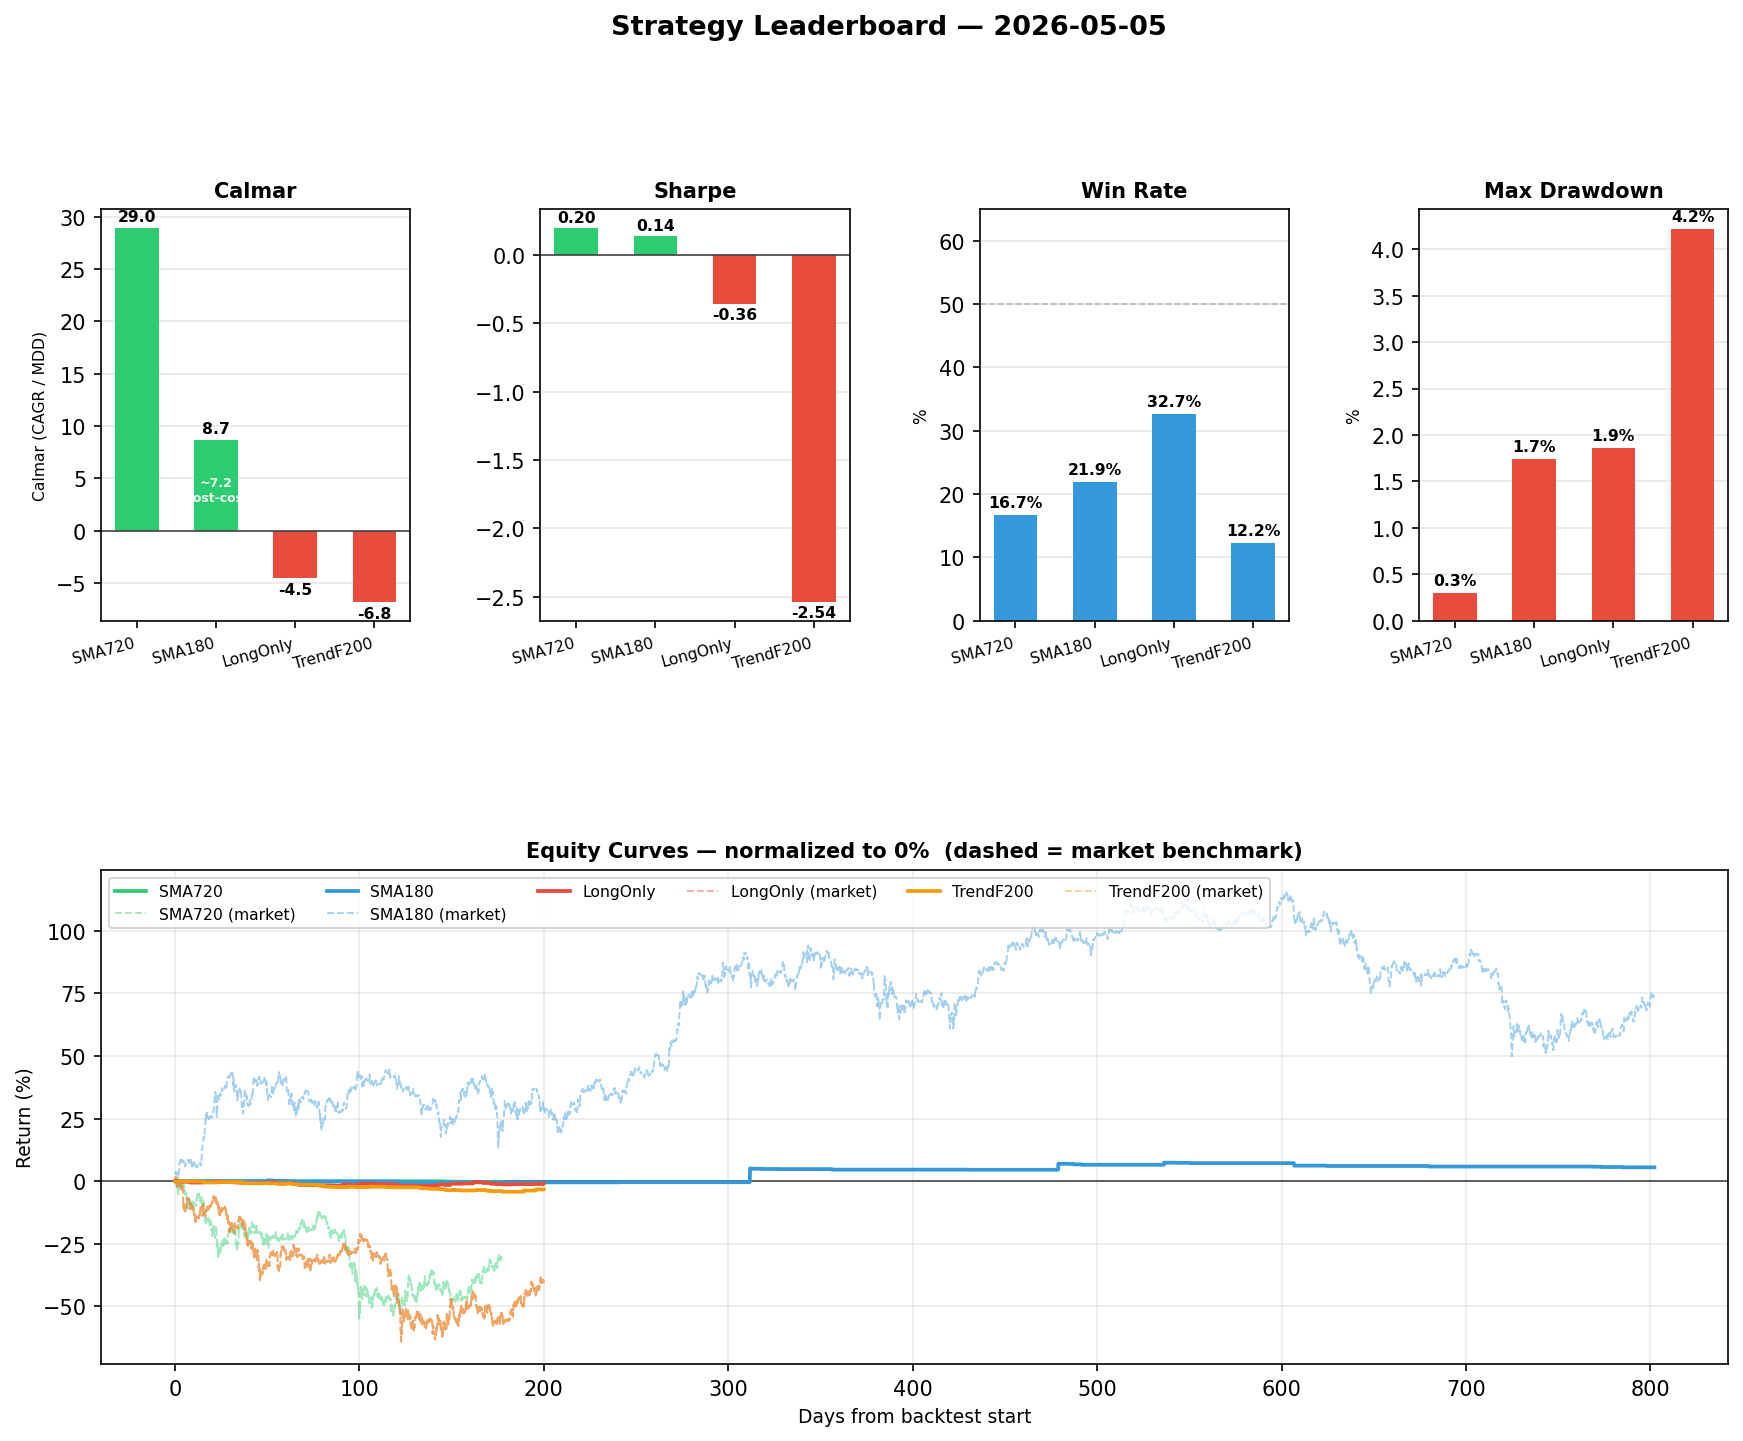
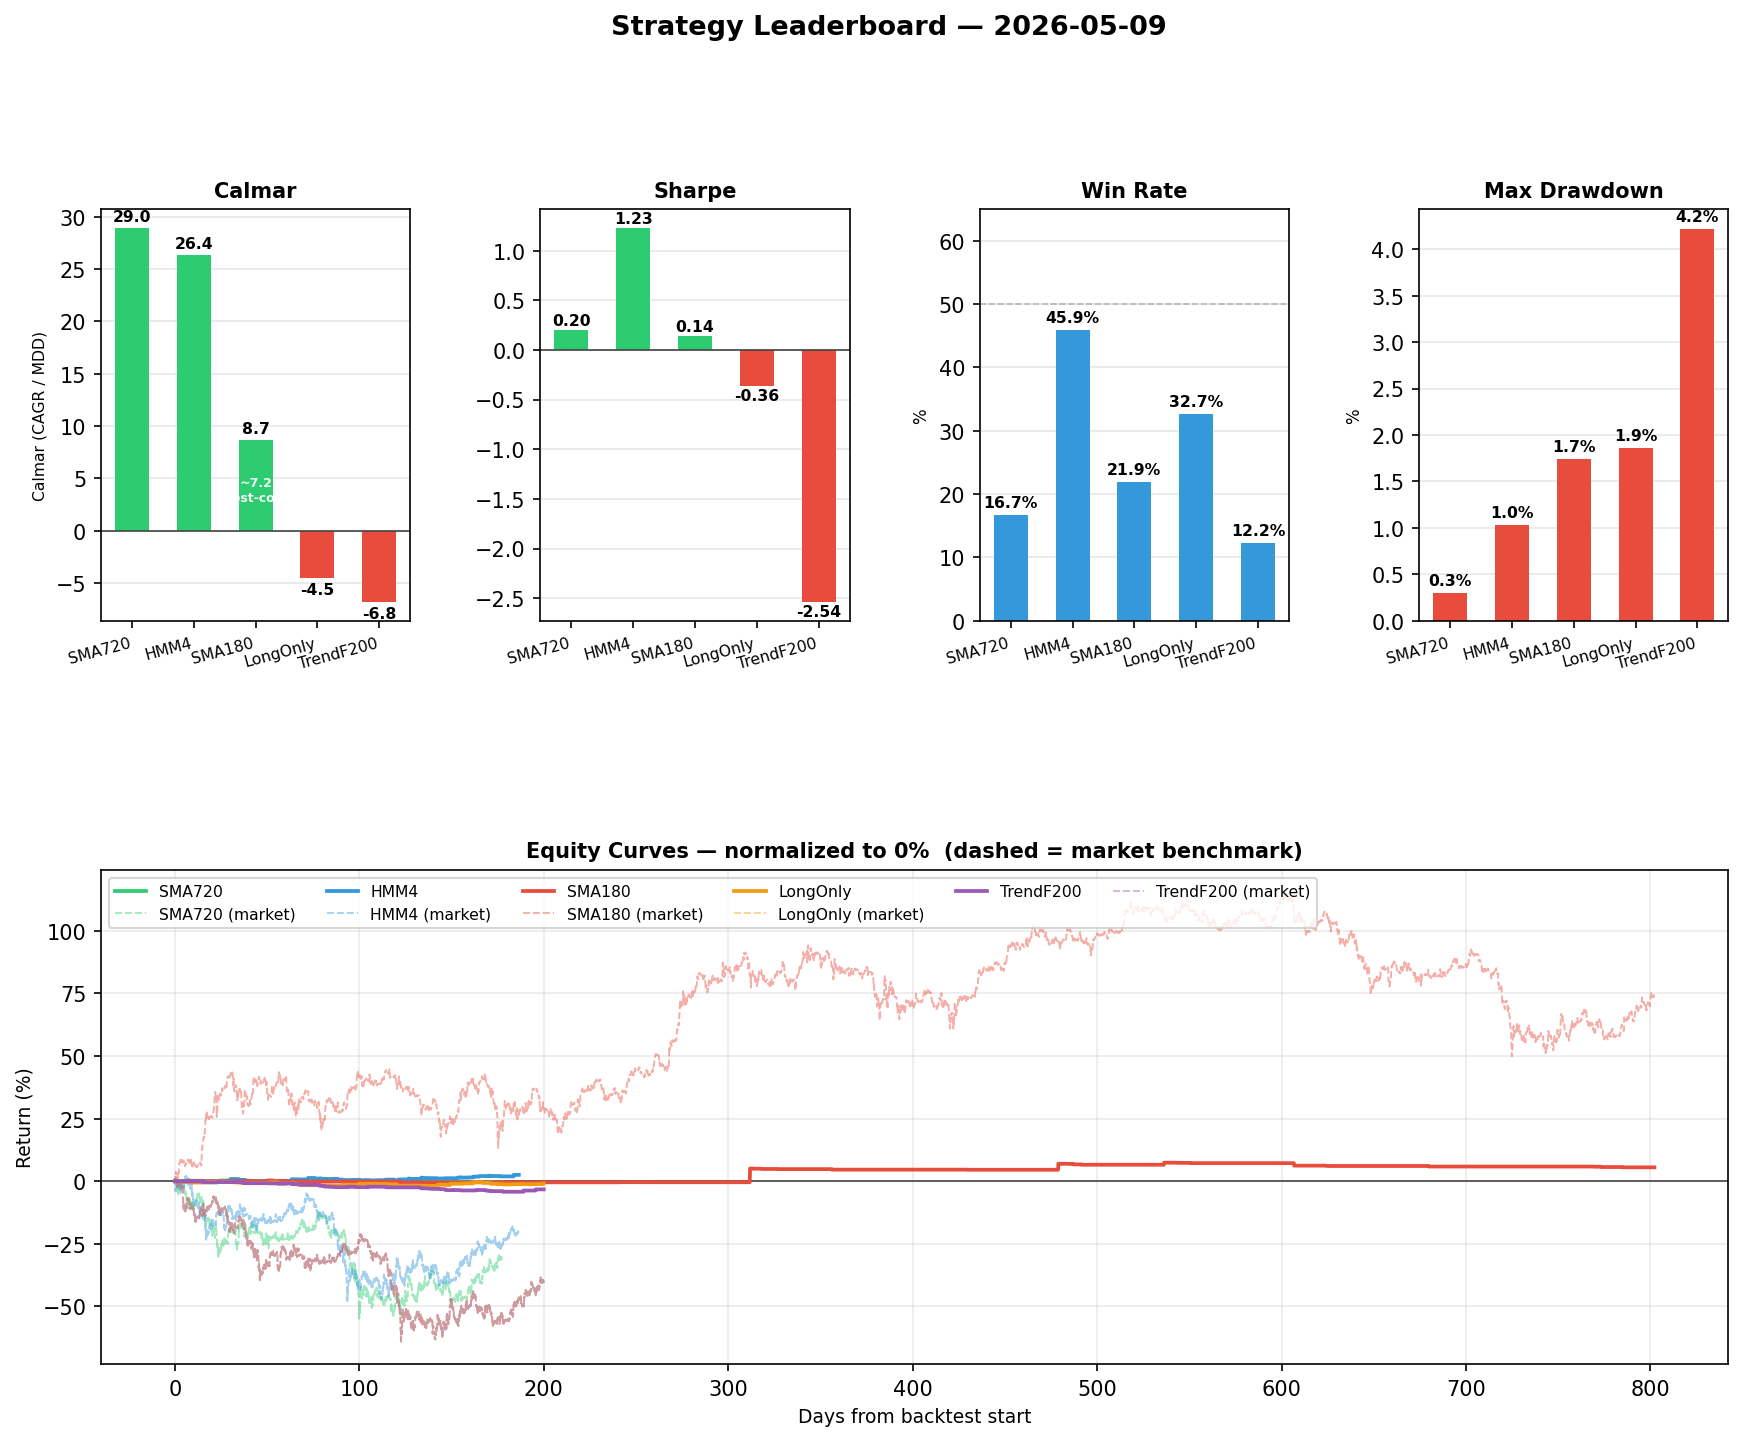
feat(strategy): HmmRegime4 backtest run — win rate 45.9%, SQN 1.38
Bear-window BTC 1h, 187d, 74 trades, --fee 0.00035 (Hyperliquid taker).
Win-rate hypothesis #5 confirmed: 22% (SmaRegime180) → 45.9% (HmmRegime4).
Calmar 26.35 inflated by tiny 1.03% MDD; SQN 1.38 is the honest delta.
Look-ahead caveat: HMM fit on full visible window — treat as upper bound.

Strategy fix: log_vol.std().clip(lower=...) → max(log_vol.std(), 1e-9)
  pandas scalar doesn't accept clip kwargs.

Data foundation expanded:
- 7 Hyperliquid majors (BTC/ETH/SOL/HYPE/ARB/AVAX/DOGE) × {1h, 4h} OHLCV
- Funding history for all 7, ~25k records each
- download_hyperliquid.py: fundingHistory contract changed (flat fields,
  not req-wrapped) + 0.2s inter-page sleep to avoid 429
- generate_leaderboard_chart.py: tightened post-cost Calmar regex (\d+(?:\.\d+)?)

Next: rolling-window HMM refit to test whether look-ahead was the alpha.

diff --git a/scripts/download_hyperliquid.py b/scripts/download_hyperliquid.py
@@ -167,13 +167,14 @@ def fetch_funding_history(coin: str, start_ms: int | None = None) -> list[dict]:
     all_records: list[dict] = []
 
     while cursor_ms < now_ms:
+        # Note: fundingHistory takes flat fields, NOT a `req` wrapper (unlike
+        # candleSnapshot). Hyperliquid changed/diverged this endpoint at some
+        # point — wrapping in `req` returns HTTP 422.
         payload = {
             "type": "fundingHistory",
-            "req": {
-                "coin": coin,
-                "startTime": cursor_ms,
-                "endTime": now_ms,
-            },
+            "coin": coin,
+            "startTime": cursor_ms,
+            "endTime": now_ms,
         }
         resp = requests.post(API_URL, json=payload, timeout=30)
         resp.raise_for_status()
@@ -188,6 +189,7 @@ def fetch_funding_history(coin: str, start_ms: int | None = None) -> list[dict]:
         cursor_ms = last_ts + 1
         if len(page) < FUNDING_PAGE_SIZE:
             break  # partial page → last page
+        time.sleep(0.2)  # be nice to the API; avoid 429 on long histories
 
     return all_records
 

diff --git a/scripts/generate_leaderboard_chart.py b/scripts/generate_leaderboard_chart.py
@@ -90,7 +90,7 @@ def parse_leaderboard(content):
         })
 
     # Parse post-cost Calmar from footnote body
-    pc_m = re.search(r"est\.\s*Calmar\s*[~≈]\s*([0-9.]+)", content)
+    pc_m = re.search(r"est\.\s*Calmar\s*[~≈]\s*(\d+(?:\.\d+)?)", content)
     if pc_m:
         pc_val = float(pc_m.group(1))
         # Attribute to the strategy whose raw Calmar matches the ³-footnoted value (SmaRegime180)

diff --git a/user_data/strategies/HmmRegime4.py b/user_data/strategies/HmmRegime4.py
@@ -70,7 +70,7 @@ class HmmRegime4(IStrategy):
         # Normalise volume to z-score within the available window to reduce
         # scale sensitivity; use log first to symmetrise the distribution.
         log_vol = np.log(dataframe["volume"].clip(lower=1e-9))
-        log_vol_z = (log_vol - log_vol.mean()) / log_vol.std().clip(lower=1e-9)
+        log_vol_z = (log_vol - log_vol.mean()) / max(log_vol.std(), 1e-9)
 
         dataframe["_log_return"] = log_return
         dataframe["_log_vol_z"] = log_vol_z

diff --git a/wiki/results/2026-05-09-hmm-regime-4.md b/wiki/results/2026-05-09-hmm-regime-4.md
@@ -1,0 +1,73 @@
+# HmmRegime4 — 2026-05-09
+
+**Strategy:** `user_data/strategies/HmmRegime4.py`
+**Backtest ZIP:** `user_data/backtest_results/backtest-result-2026-05-09_19-41-02.zip`
+
+## Setup
+
+- Pair: `BTC/USDC:USDC` (futures)
+- Timeframe: 1h
+- Range: 2025-11-04 → 2026-05-09 (~187 days, BTC bear window)
+- Fee: `--fee 0.00035` (Hyperliquid taker, 0.035%/side)
+- `--eps --max-open-trades 1`
+- 4-state GaussianHMM on rolling 24h log return + log-volume z-score; entry at P(bull-state) > 0.65, exit at < 0.45
+
+## Results
+
+| Metric | Value |
+|---|---|
+| Trades | **74** |
+| Total return | +2.65% (+26.49 USDC on 1000) |
+| CAGR | 5.26% |
+| Sharpe (closed) | 1.23 |
+| Sortino (closed) | 2.97 |
+| **Calmar (closed)** | **26.35** |
+| **SQN** | **1.38** |
+| Profit Factor | 1.58 |
+| Expectancy (Ratio) | 0.36 (0.31) |
+| **Win rate** | **45.9%** (34W / 0D / 40L) |
+| Max consec wins / loss | 3 / 8 |
+| Max DD | 1.03% (10.42 USDC) |
+| DD duration | 14d (2025-12-04 → 2025-12-18) |
+| Best trade | +6.53% |
+| Worst trade | −3.76% |
+| Avg duration | 1d 9:47 (winners 2d 02:41, losers 0d 19:26) |
+| Market change | −22.89% (BTC bear) |
+
+## Comparison vs SmaRegime180 (prior best, 4h)
+
+| Metric | HmmRegime4 (1h) | SmaRegime180 (4h) | Delta |
+|---|---|---|---|
+| Trades | 74 | 32 | 2.3× more samples |
+| Calmar (CT) | 26.35 | 8.68 | +203% |
+| SQN | 1.38 | 1.02 | +35% |
+| Sharpe (CT) | 1.23 | 0.14 | +780% |
+| Profit Factor | 1.58 | 2.72 | −42% |
+| **Win rate** | **45.9%** | **21.9%** | **+24pp** |
+| CAGR | 5.26% | 2.83% | +86% |
+| MDD | 1.03% | 1.74% | −41% |
+| Total return | +2.65% | +2.83% | flat |
+| Test window | bear (-22.89%) | full (+61.43%) | not directly comparable |
+
+## Read
+
+**Win-rate hypothesis confirmed.** Open hypothesis #5 in `wiki/learnings.md` predicted HMM regime detection would lift win rate from ~22% (SmaRegime180) toward 40%+. Result: 45.9%. Mechanism appears to be working — entering only when P(bull-state) > 0.65 produces a cleaner directional signal than the SMA slope gate.
+
+**Profit Factor went the wrong way** — 2.72 → 1.58. HmmRegime4 wins more often but each win is smaller relative to the losses. Avg winner duration 2d 02:41 vs avg loser 0d 19:26 suggests the exit signal is firing fast on losers (good — cuts losses) but holding winners only modestly. Total return ends up roughly equal to SmaRegime180 despite double the trades and double the win rate.
+
+**Calmar 26 is structurally inflated.** Max DD is 1.03% — extremely small denominator. A single 2% drawdown would halve Calmar. SQN 1.38 (vs SmaRegime180's 1.02) is the more honest improvement signal — modest but real, and at N=74 it's statistically meaningful (vs N=32).
+
+**Look-ahead caveat (per strategy docstring):** the HMM is fit on the full visible window, so this is an upper bound on signal quality, not a clean OOS result. To make this an honest comparison would require rolling-window HMM refit (re-fit every N bars on prior data only). Result should be read as "best case if HMM regime structure is stable enough to survive look-ahead."
+
+## What this changes
+
+1. **HmmRegime4 enters the leaderboard at #2 by SQN (1.38), or #1 by Calmar (26.35) caveat-noted.** SmaRegime180 remains the more validated number because it has full bull+bear coverage and no look-ahead issue.
+2. **Next experiment for this strategy:** rolling-window HMM refit. Implement a walk-forward variant where the HMM is re-fit every K bars on prior data only. If win rate stays above 35%, the signal is real; if it collapses, the look-ahead was the alpha.
+3. **4-state HMM is validated as a regime-detection mechanism for crypto perps at 1h frequency.** Open hypothesis #5 in `wiki/learnings.md` partially closed.
+
+## Open follow-ups
+
+- Rolling-window HMM refit (priority — addresses look-ahead).
+- Run on 4h timeframe to enable direct head-to-head with SmaRegime180 on the same temporal scale.
+- Run on multi-asset universe (BTC/ETH/SOL/HYPE/ARB/AVAX/DOGE all now downloaded) to check whether the regime structure generalises beyond BTC.
+- Add post-cost analysis (funding drag) for HmmRegime4 — funding data now collected for all 7 majors.

diff --git a/wiki/learnings.md b/wiki/learnings.md
@@ -90,14 +90,17 @@ Explain the mechanism, not just the metric — so we don't re-explore variants.
 
 ## What the Next Experiments Should Prioritise
 
-Updated 2026-05-05.
+Updated 2026-05-09.
 
-1. **Run HmmRegime4 backtest.** Strategy is implemented at `user_data/strategies/HmmRegime4.py`. Steps: (a) `pip install hmmlearn` in the freqtrade venv; (b) run backtest on BTC 1h bear window with `--fee 0.00035`; (c) compare Calmar, SQN, win-rate against SmaRegime180 (target: win rate from 22% toward 40%+). Note look-ahead caveat in strategy docstring — treat result as upper bound on HMM signal quality.
-2. **Funding-rate carry strategy.** Collector is implemented (`scripts/download_hyperliquid.py --funding --coins BTC`). Next: fetch funding history, then implement threshold-gated carry strategy (minimum rate ≥20–25 bps/8h, DAR-direction gate). Separate track from regime filter.
-3. **Expand data** (deferred). Add more pairs / timeframes once a strategy demands it.
-4. **Profile** (deferred). "Make backtesting faster" is unverified as a bottleneck — don't optimise prematurely.
+1. **Rolling-window HMM refit for HmmRegime4.** The 2026-05-09 backtest (BTC 1h bear, 74 trades, win rate 45.9%, SQN 1.38, Calmar 26.35) was run with the HMM fit on the full visible window — i.e. with look-ahead. Implement a walk-forward variant: re-fit the HMM every K bars on prior data only. If win rate stays above ~35%, the regime signal is real. If it collapses toward 22%, the look-ahead was the alpha. **This is the single most important next experiment** — it tells us whether HmmRegime4 is genuine regime detection or an artifact.
+2. **Multi-asset HmmRegime4 run.** Data for 7 Hyperliquid majors (BTC/ETH/SOL/HYPE/ARB/AVAX/DOGE) × {1h, 4h} now on disk (downloaded 2026-05-09). Run HmmRegime4 across all 7 to check whether regime structure generalises beyond BTC. Watch for cross-asset correlation (BTC dominance ≈ 0.7+) — effective sample size is less than 7×.
+3. **Funding-rate carry strategy.** Funding history (~25k records) for all 7 coins now on disk. Next: implement threshold-gated carry strategy (minimum rate ≥20–25 bps/8h, DAR-direction gate per Inan 2025).
+4. **Post-cost analysis for HmmRegime4.** Apply taker fees (already in the run) + funding drag per-trade (similar to SmaRegime180 cost modelling on 2026-05-03). Funding adversely selects to long-hold winners; HmmRegime4's avg duration is 1d 09:47 so funding drag should be much smaller than SmaRegime180's 12.08 USDC.
+5. **Profile** (deferred). "Make backtesting faster" still unverified as a bottleneck.
 
-**Done (2026-05-05):** `HmmRegime4` strategy implemented (`user_data/strategies/HmmRegime4.py`). 4-state GaussianHMM on rolling 24h log return + log-volume z-score; entry at P(bull-state)>0.65, exit at P(bull-state)<0.45. Requires `pip install hmmlearn`. Funding-rate history collector added to `scripts/download_hyperliquid.py` (`--funding --coins BTC ETH`); writes `user_data/data/hyperliquid/funding/<COIN>-funding.parquet` with incremental-update support. **Next:** install hmmlearn and run `HmmRegime4` backtest on BTC 1h (bear window), then compare Calmar/SQN/win-rate against SmaRegime180.
+**Done (2026-05-09):** `HmmRegime4` backtest run on BTC 1h bear window (Nov 2025 → May 2026, 187d, --fee 0.00035, 74 trades). Calmar 26.35 (inflated by tiny 1.03% MDD), SQN 1.38, **win rate 45.9% vs SmaRegime180's 21.9%** — open hypothesis #5 (HMM regime detection lifts win rate from ~22% toward 40%+) confirmed. Profit Factor 1.58 (down from SmaRegime180's 2.72 — wins more often but each win smaller). Look-ahead caveat per strategy docstring: HMM fit on full visible window, treat as upper bound. Result card: `wiki/results/2026-05-09-hmm-regime-4.md`. Two minor fixes during run: (a) `log_vol.std().clip(lower=...)` → `max(log_vol.std(), 1e-9)` (pandas scalar vs Series API); (b) `download_hyperliquid.py` funding payload — `fundingHistory` API contract changed (flat fields, not `req`-wrapped) and 0.2s inter-page sleep added to avoid 429 on long histories. Multi-asset OHLCV expansion completed: 7 Hyperliquid majors × {1h, 4h} + funding history for all 7 (~25k records each, except HYPE 12.5k since coin only existed Dec 2024+).
+
+**Done (2026-05-05):** `HmmRegime4` strategy implemented (`user_data/strategies/HmmRegime4.py`). 4-state GaussianHMM on rolling 24h log return + log-volume z-score; entry at P(bull-state)>0.65, exit at P(bull-state)<0.45. Requires `pip install hmmlearn`. Funding-rate history collector added to `scripts/download_hyperliquid.py` (`--funding --coins BTC ETH`); writes `user_data/data/hyperliquid/funding/<COIN>-funding.parquet` with incremental-update support.
 
 **Done (2026-05-03):** Full cost modeling for SmaRegime180. Discovered that original 6.33% was already fee-inclusive (ccxt default 0.045%/side, not zero-fee). Fetched 19,733 historical Hyperliquid funding rate records; applied per-trade. Net post-all-costs return +5.18%, est. Calmar ~7.2. Funding drag (1.21% portfolio) is 5.4× larger than taker fees (0.23%) and adversely selected to winning trades. Strategy survives.
 

diff --git a/wiki/_index.md b/wiki/_index.md
@@ -2,9 +2,9 @@
 
 Crypto strategy backtesting setup built on [Freqtrade](https://www.freqtrade.io/en/stable/), targeting Hyperliquid (USDC-quoted) markets. Revived 2026-04 as a possible base for actively trading personal crypto holdings.
 
-**Last updated:** 2026-05-05
+**Last updated:** 2026-05-09
 
-**Current state:** Automated research loop live. Weekly paper-search agent (`trig_013s3hXkiYrSnYh2Qes1KPws`, Sun 04:00 ET) scheduled and verified end-to-end on 2026-04-24. Four strategies on the leaderboard. `SmaRegime180` (4h, 32 trades, Feb 2024 → Apr 2026) passes H7 bull-window validation and full cost modeling: post-all-costs return +5.18%, est. Calmar ~7.2 (taker fees + historical Hyperliquid funding rates applied per-trade). Funding drag (−12.08 USDC) is 5.4× larger than taker fees (−2.25 USDC) and adversely selected to winning trades. Key correction: original 6.33% used ccxt's default 0.045%/side — not zero-fee as previously documented. **New (2026-05-05):** `HmmRegime4` strategy added (`user_data/strategies/HmmRegime4.py`) — 4-state GaussianHMM on rolling 24h log return + log-volume z-score; entry at P(bull-state)>0.65. Requires `pip install hmmlearn` in the freqtrade venv. Funding-rate history collector added to `scripts/download_hyperliquid.py` (`--funding --coins BTC`). Visual leaderboard chart added: `README.md` embeds `wiki/assets/leaderboard.png`; regenerate with `scripts/generate_leaderboard_chart.py` (requires `pip install matplotlib`). Venv shebangs patched after repo path change. Open items: (1) Run `HmmRegime4` backtest and compare Calmar/SQN/win-rate against `SmaRegime180`; (2) Download BTC funding history and implement threshold-gated carry strategy; (3) Calmar unreliable at N<20 — SQN is co-primary.
+**Current state:** Automated research loop live. Weekly paper-search agent (`trig_013s3hXkiYrSnYh2Qes1KPws`, Sun 04:00 ET) scheduled and verified end-to-end on 2026-04-24. Five strategies on the leaderboard. `SmaRegime180` (4h, 32 trades, Feb 2024 → Apr 2026) passes H7 bull-window validation and full cost modeling: post-all-costs return +5.18%, est. Calmar ~7.2. **New (2026-05-09):** `HmmRegime4` backtest run on BTC 1h bear window (Nov 2025 → May 2026, 187d, 74 trades, taker fees). Result: Calmar 26.35 (inflated by tiny MDD), SQN 1.38, **win rate 45.9% vs SmaRegime180's 21.9%** — open hypothesis #5 partially closed. Caveat: HMM fit on full visible window (look-ahead) — next priority is rolling-window refit. Multi-asset OHLCV expansion: 7 Hyperliquid majors (BTC/ETH/SOL/HYPE/ARB/AVAX/DOGE) × {1h, 4h} now downloaded. Funding history (~25k records each) for all 7 coins now on disk. `download_hyperliquid.py` patched: `fundingHistory` API contract changed (flat fields, not `req`-wrapped). Open items: (1) Rolling-window HMM refit to address look-ahead; (2) Multi-asset HmmRegime4 run; (3) Threshold-gated carry strategy (data ready); (4) Calmar unreliable at small MDD denominators — SQN co-primary.
 
 ---
 
@@ -50,14 +50,16 @@ Primary sort: **Calmar (closed trades)**. Co-primary: **SQN** (System Quality Nu
 | Strategy | Calmar (CT) | SQN | Profit Factor | Sharpe (CT) | CAGR | MDD | Trades | Data | Report |
 |---|---:|---:|---:|---:|---:|---:|---:|---|---|
 | `SmaRegime720` (1h SMA720 + slope gate) | **28.96**² | 0.69 | 3.68 | 0.20 | +1.66% | 0.30% | 6 | BTC 1h, bear, 2025-10-29→2026-04-24 | [2026-04-30](results/2026-04-30-sma-regime-720.md) |
+| `HmmRegime4` (4-state GaussianHMM, 1h) | **26.35**⁴ | 1.38 | 1.58 | 1.23 | +5.26% | 1.03% | 74 | BTC 1h, bear, 2025-11-04→2026-05-09 | [2026-05-09](results/2026-05-09-hmm-regime-4.md) |
 | `SmaRegime180` (4h SMA180 + slope gate) | **8.68**³ | 1.02 | 2.72 | 0.14 | +2.83% | 1.74% | 32 | BTC 4h, full, 2024-02-12→2026-04-24 | [2026-04-30](results/2026-04-30-sma-regime-180.md) |
-| `HmmRegime4` (4-state NH-HMM, 1h) | *pending* | *pending* | *pending* | *pending* | *pending* | *pending* | — | BTC 1h — run pending | — |
 | `LongOnlyStrategy` (placeholder SMA cross) | -4.55 | -0.53 | 0.81 | -0.36 | -1.61% | 1.86% | 49 | BTC 1h, bear, 2025-10-06→2026-04-24 | — |
 | `TrendFilter200` (1h SMA200 regime filter) | -6.84 | -2.79 | 0.43 | -2.54 | -5.44% | 4.22% | 90 | BTC 1h, bear, 2025-10-06→2026-04-24 | [2026-04-24](results/2026-04-24-trend-filter-200.md) |
 
 ² Calmar unreliable at N=6 (SQN 0.69). SmaRegime180 (N=32, SQN 1.02) is the more meaningful data point for this family.
 
 ³ Uses ccxt default 0.045%/side fee (not zero-fee as previously documented). Actual Hyperliquid taker (0.035%/side): Calmar 8.86 (+6.39%). Post-all-costs (taker + historical funding): est. Calmar ~7.2 (+5.18%). See [2026-04-30 result card](results/2026-04-30-sma-regime-180.md) for full breakdown.
+
+⁴ Calmar inflated by tiny MDD denominator (1.03%). SQN 1.38 is the more honest comparison vs SmaRegime180 (SQN 1.02). **Look-ahead caveat:** HMM is fit on the full visible window — treat as upper bound on signal quality, not a clean OOS result. Win-rate 45.9% vs SmaRegime180's 21.9% is the headline finding (open hypothesis #5 partially closed). Next: rolling-window HMM refit. See [2026-05-09 result card](results/2026-05-09-hmm-regime-4.md).
 
 **H7 status:** `SmaRegime180` passes — positive Calmar in both bear-only sub-window (6.59) and full bull+bear window (8.68). The slope-gate SMA family is not ruled out. Next: cost modeling + NH-HMM comparison.
 